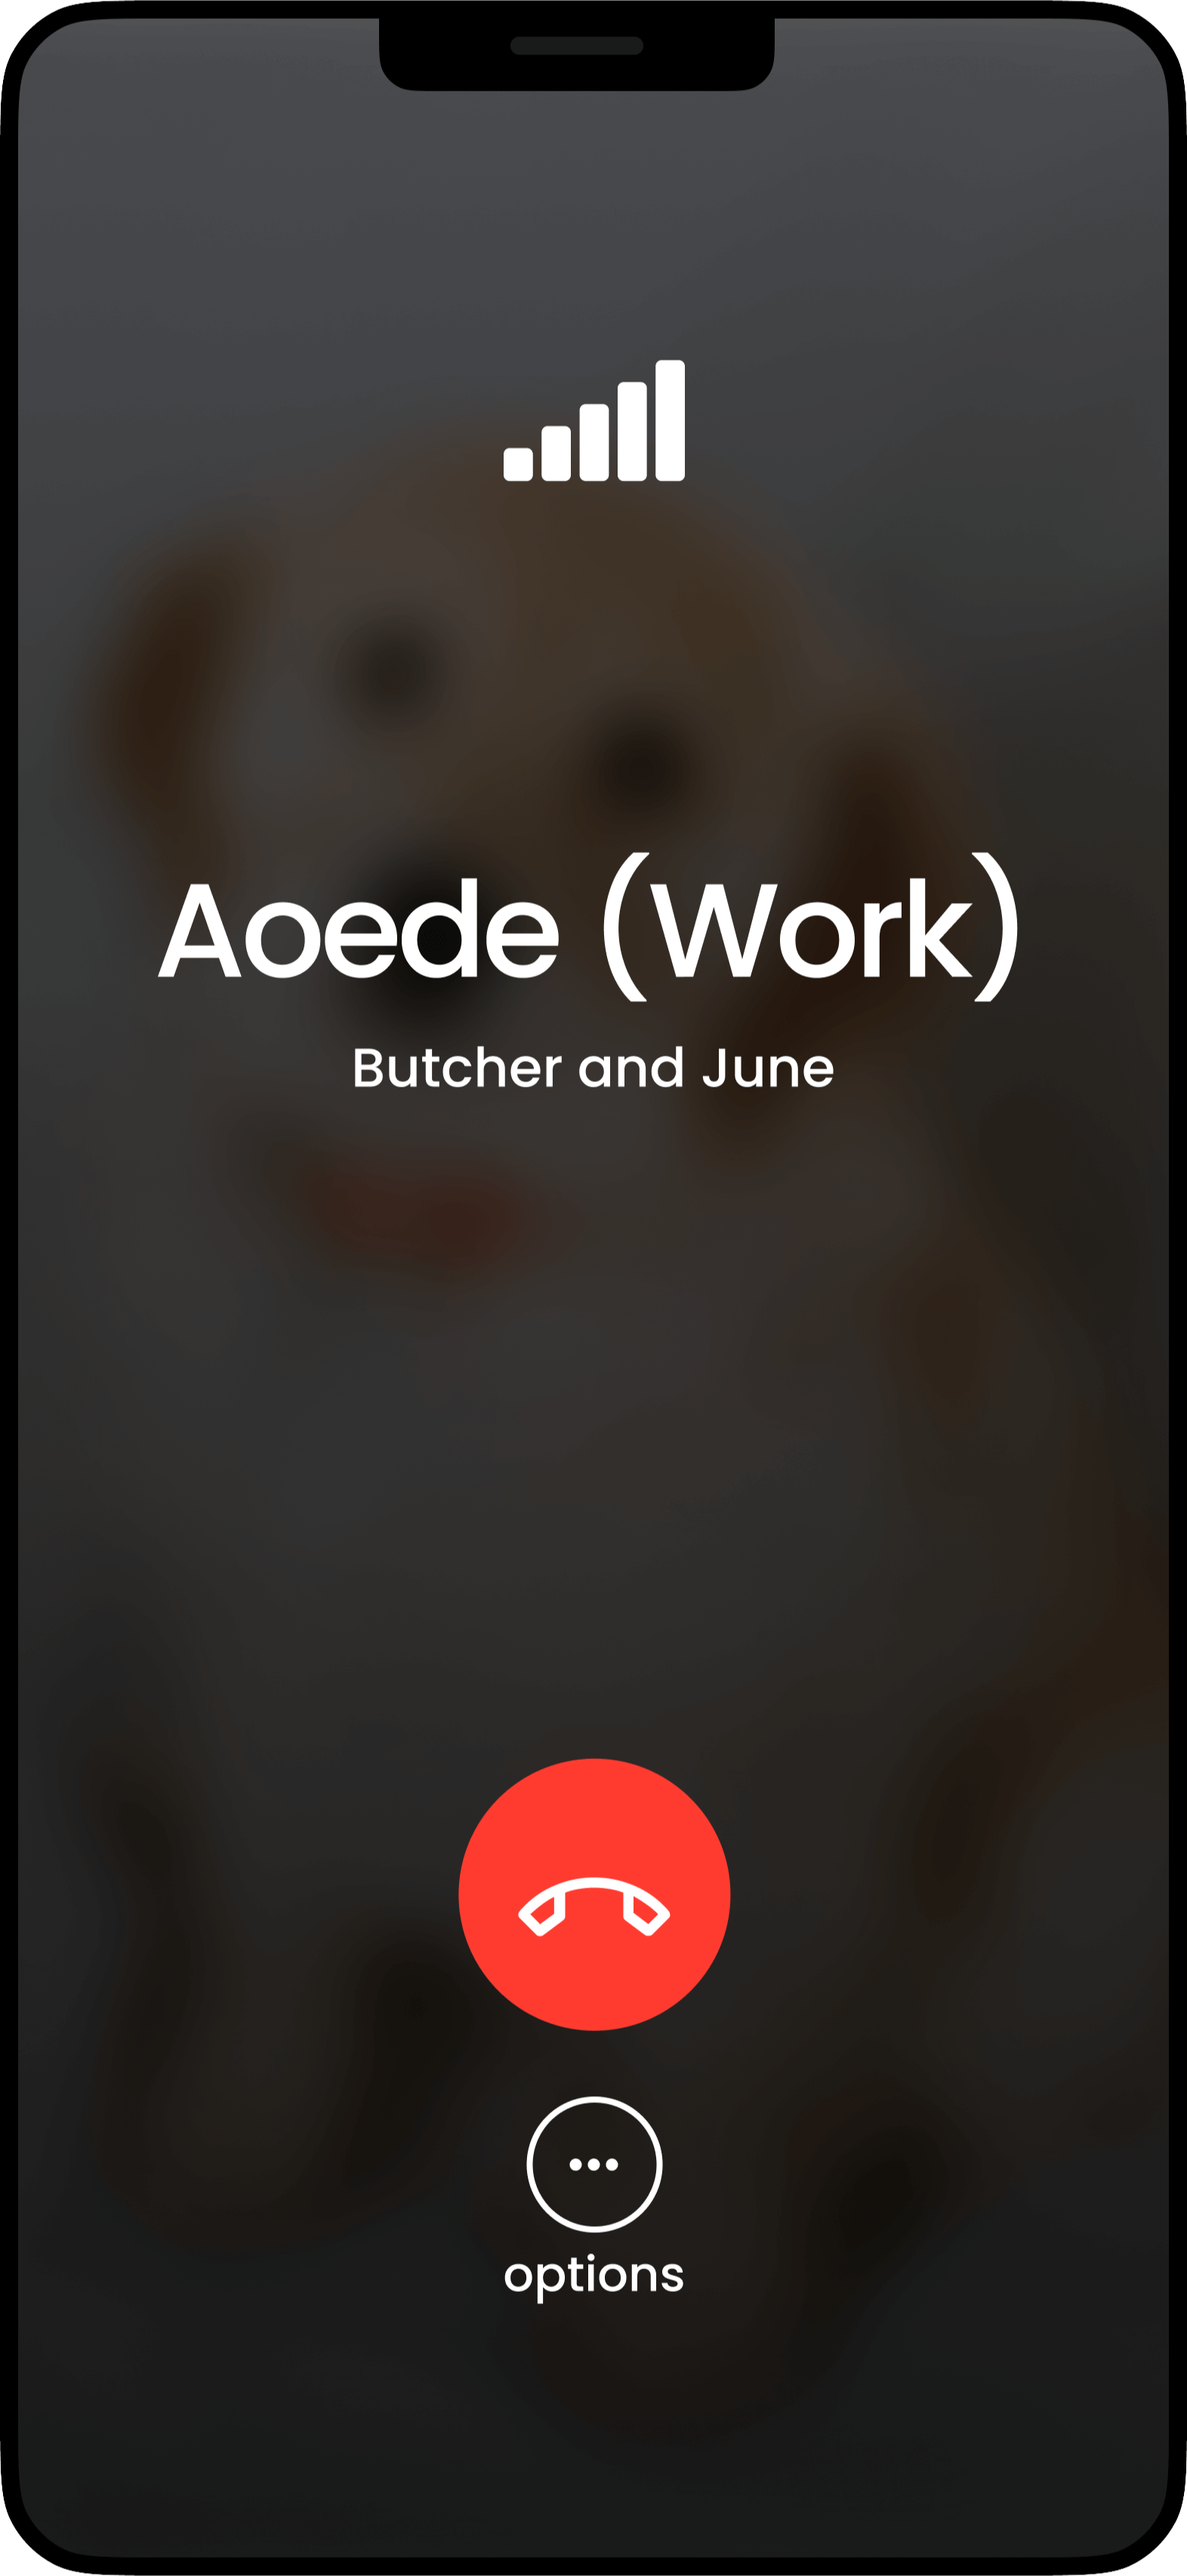
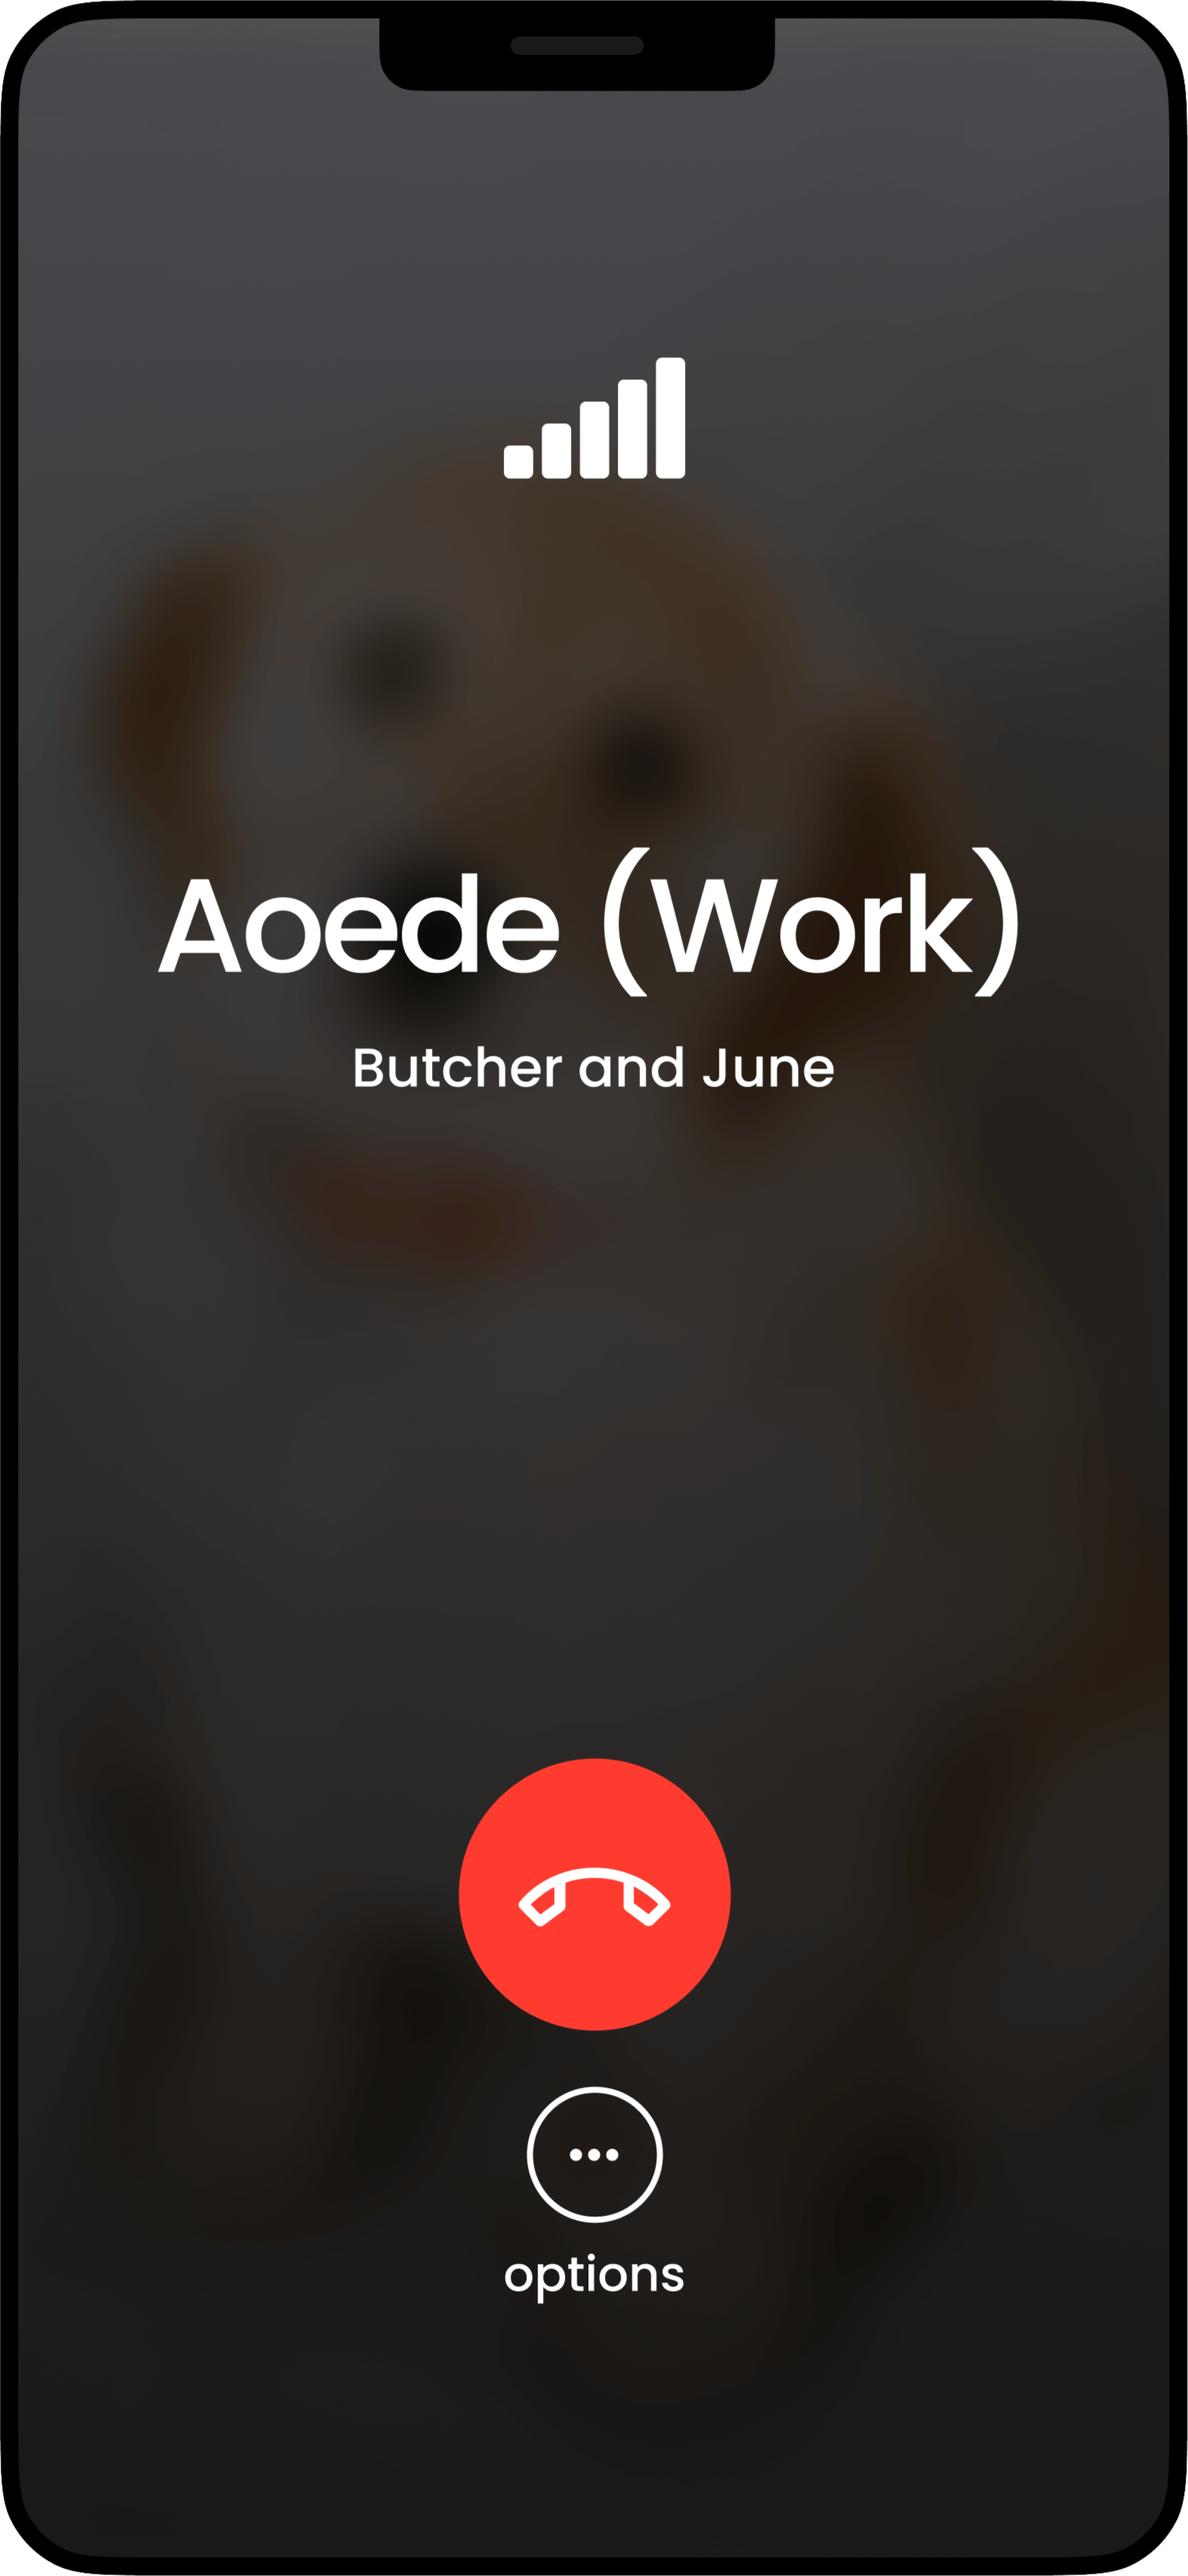
updated image issue

diff --git a/src/components/SorryIJustWentIntoATunnPhone/SorryIJustWentIntoATunnPhone.tsx b/src/components/SorryIJustWentIntoATunnPhone/SorryIJustWentIntoATunnPhone.tsx
@@ -4,7 +4,13 @@ import SorryIJustWentIntoATunnSignalBar from "../SorryIJustWentIntoATunnSignalBa
 import SorryIJustWentIntoATunnNetwork from "../SorryIJustWentIntoATunnNetwork/SorryIJustWentIntoATunnNetwork";
 import SorryIJustWentIntoATunnTimer from "../SorryIJustWentIntoATunnTimer/SorryIJustWentIntoATunnTimer";
 
-const SorryIJustWentIntoATunnPhone = ({ signal }: { signal: number }) => {
+const SorryIJustWentIntoATunnPhone = ({
+  signal,
+  connected,
+}: {
+  signal: number;
+  connected: boolean;
+}) => {
   return (
     <div className={styles.root}>
       <video
@@ -24,7 +30,7 @@ const SorryIJustWentIntoATunnPhone = ({ signal }: { signal: number }) => {
         alt="Smartphone illustration"
       />
       <SorryIJustWentIntoATunnNetwork signal={signal} />
-      <SorryIJustWentIntoATunnTimer />
+      <SorryIJustWentIntoATunnTimer connected={connected} />
     </div>
   );
 };

diff --git a/src/components/SorryIJustWentIntoATunnTimer/SorryIJustWentIntoATunnTimer.tsx b/src/components/SorryIJustWentIntoATunnTimer/SorryIJustWentIntoATunnTimer.tsx
@@ -1,7 +1,11 @@
 import styles from "./SorryIJustWentIntoATunnTimer.module.scss";
 import { useEffect, useMemo, useState } from "react";
 
-const SorryIJustWentIntoATunnTimer = () => {
+const SorryIJustWentIntoATunnTimer = ({
+  connected,
+}: {
+  connected: boolean;
+}) => {
   const mountedTime = useMemo(() => Date.now(), []);
   const [elapsedTime, setElapsedTime] = useState(0);
   useEffect(() => {
@@ -18,7 +22,9 @@ const SorryIJustWentIntoATunnTimer = () => {
 
   return (
     <div className={styles.root}>
-      {new Date(elapsedTime).toISOString().slice(14, 19)}
+      {connected
+        ? new Date(elapsedTime).toISOString().slice(14, 19)
+        : "connecting"}
     </div>
   );
 };

diff --git a/src/pages/SorryIJustWentIntoATun.tsx b/src/pages/SorryIJustWentIntoATun.tsx
@@ -116,7 +116,7 @@ const SorryIJustWentIntoATunn = () => {
         onPlay={(e) => ((e.target as HTMLVideoElement).volume = 0.2)}
       />
       <main>
-        <SorryIJustWentIntoATunnPhone signal={signal} />
+        <SorryIJustWentIntoATunnPhone signal={signal} connected={connected} />
       </main>
     </div>
   );
